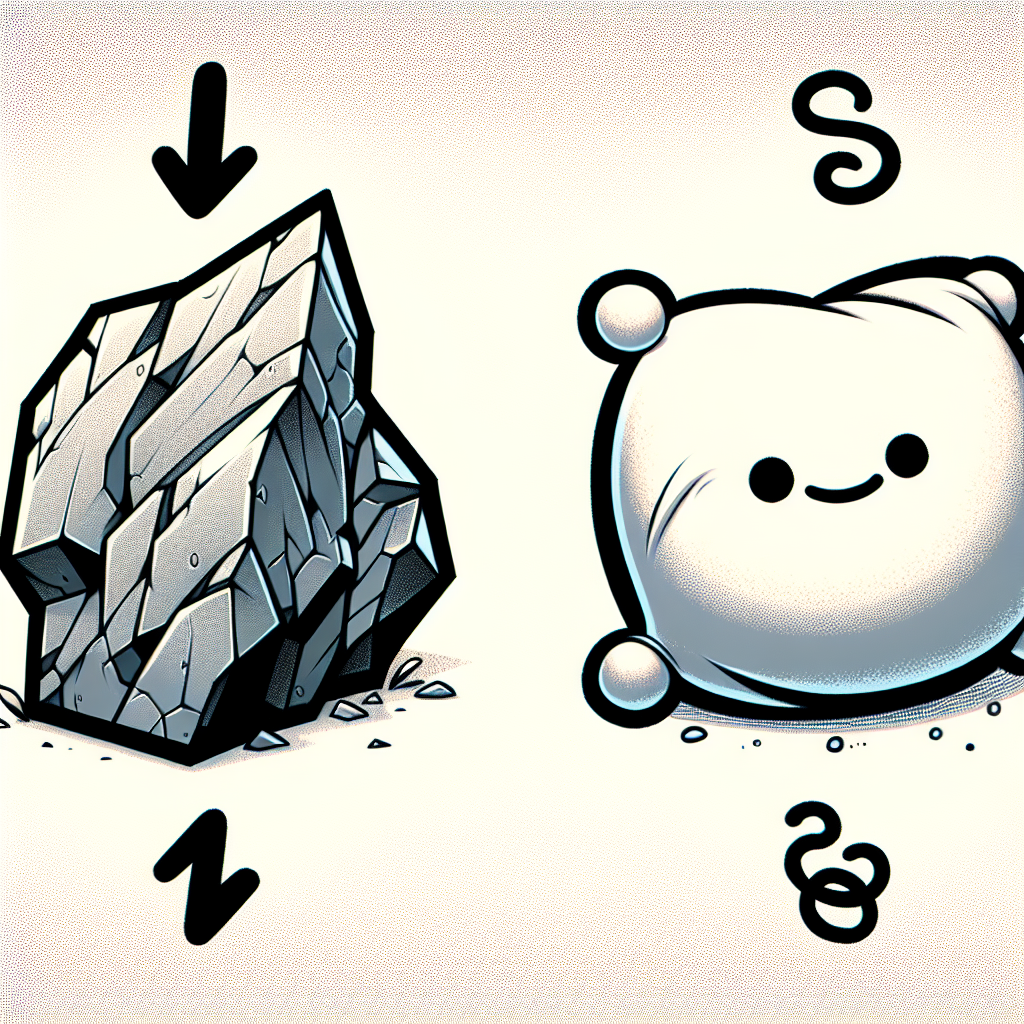
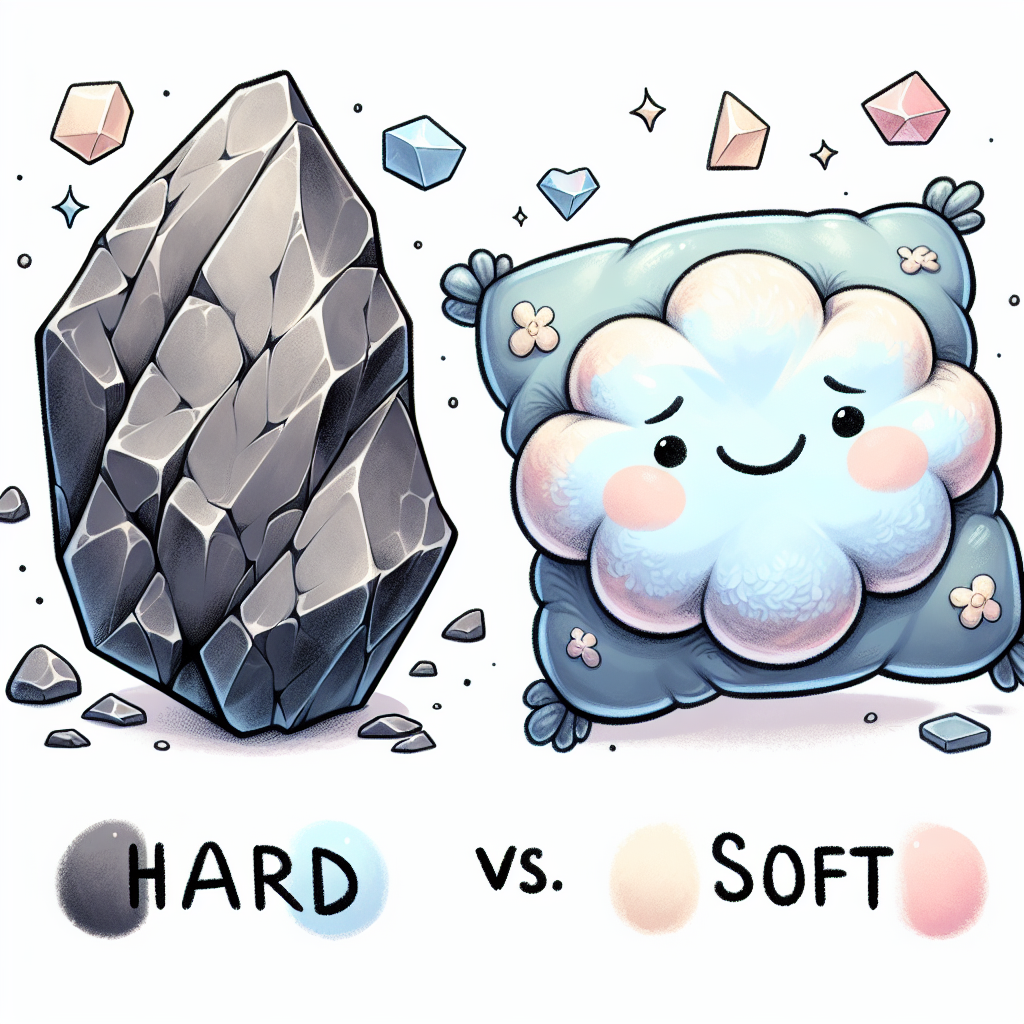
Update vocabulary images with a warmer illustrated style
Regenerate 13 vocabulary images to a middle-ground illustrated style, updating file versions and documentation.

Replit-Commit-Author: Agent
Replit-Commit-Session-Id: 40bae50e-b1a0-416e-ab59-b413c947b599
Replit-Commit-Checkpoint-Type: full_checkpoint
Replit-Commit-Event-Id: 422529fc-b295-4e0c-a7e1-ed117949aa4d
Replit-Commit-Screenshot-Url: https://storage.googleapis.com/screenshot-production-us-central1/3ca2376d-c3dc-490a-a375-6b2f97f7c281/40bae50e-b1a0-416e-ab59-b413c947b599/hZPVtWT
Replit-Helium-Checkpoint-Created: true

diff --git a/scripts/regen-middle-ground.ts b/scripts/regen-middle-ground.ts
@@ -1,0 +1,275 @@
+/**
+ * Regenerate adjectives + problem activities in a "middle ground" illustrated style:
+ * - Warm soft watercolour-textured illustration
+ * - Clean bold outlines
+ * - Friendly rounded characters, NOT realistic anatomy or facial detail
+ * - NOT flat digital cartoon
+ * - Think: modern children's picture book / greeting-card illustration
+ */
+
+import OpenAI from 'openai';
+import { Storage } from '@google-cloud/storage';
+import { drizzle } from 'drizzle-orm/neon-http';
+import { neon } from '@neondatabase/serverless';
+import { sql } from 'drizzle-orm';
+import fs from 'fs';
+import path from 'path';
+import https from 'https';
+
+const OPENAI_KEY = process.env.USER_OPENAI_API_KEY || process.env.OPENAI_API_KEY || '';
+const BUCKET_ID  = process.env.DEFAULT_OBJECT_STORAGE_BUCKET_ID || '';
+const DB_URL     = process.env.NEON_SHARED_DATABASE_URL || '';
+const SIDECAR    = 'http://127.0.0.1:1106';
+
+if (!OPENAI_KEY) throw new Error('OPENAI_API_KEY not set');
+if (!BUCKET_ID)  throw new Error('DEFAULT_OBJECT_STORAGE_BUCKET_ID not set');
+if (!DB_URL)     throw new Error('NEON_SHARED_DATABASE_URL not set');
+
+const openai = new OpenAI({ apiKey: OPENAI_KEY });
+const gcs = new Storage({
+  credentials: {
+    audience: 'replit', subject_token_type: 'access_token',
+    token_url: `${SIDECAR}/token`, type: 'external_account',
+    credential_source: { url: `${SIDECAR}/credential`, format: { type: 'json', subject_token_field_name: 'access_token' } },
+    universe_domain: 'googleapis.com',
+  } as any,
+  projectId: '',
+});
+const sqlClient = neon(DB_URL);
+const db = drizzle(sqlClient);
+const OUT_DIR = path.join(process.cwd(), 'attached_assets/generated_images/vocab');
+
+// Middle-ground style: illustrated warmth without photorealism
+const S =
+  'Warm charming illustration style: clean bold outlines, soft watercolour-like colour fills with gentle texture, ' +
+  'vibrant cheerful colours, friendly rounded shapes, children\'s picture-book quality. ' +
+  'NOT photorealistic. NOT flat digital cartoon. ' +
+  'ZERO TEXT ZERO WORDS ZERO LETTERS ZERO NUMBERS anywhere in the image. White background.';
+
+// For scenes with characters: extra character guidance
+const CHAR =
+  'Any characters must have simple rounded heads with dot eyes and small smiles, ' +
+  'no realistic skin texture, no detailed facial features, no ethnically specific markers, ' +
+  'simple brightly coloured clothing. Gender-neutral unless context requires otherwise.';
+
+interface Entry {
+  filename: string; destFilename: string; prompt: string;
+  cacheKeys: string[]; tags: string[];
+}
+
+const IMAGES: Entry[] = [
+
+  // ── ADJECTIVES ──────────────────────────────────────────────────────────────
+
+  {
+    filename: 'adj_feliz_triste.png', destFilename: 'vocab_adj_feliz_triste.png',
+    prompt:
+      'Two large expressive faces side by side on a white background. ' +
+      'LEFT — a cheerful round face with a big warm smile, rosy cheeks, and crinkled happy eyes, radiating joy with a warm golden glow around it. ' +
+      'RIGHT — a sad round face with a downturned mouth, a single glistening teardrop on the cheek, and droopy eyes, surrounded by a cool blue-grey mood. ' +
+      'Both faces are simple and charming, like friendly characters in a children\'s book — expressive but not photo-real. ' + S,
+    cacheKeys: ['vocab_spanish_feliz', 'vocab_spanish_triste', 'vocab_spanish_alegre'],
+    tags: ['vocabulary', 'novice_mid', 'adjectives', 'section2'],
+  },
+
+  {
+    filename: 'adj_rapido_lento.png', destFilename: 'vocab_adj_rapido_lento.png',
+    prompt:
+      'A fun illustrated scene of a rabbit racing a snail. ' +
+      'The rabbit is far in the lead, almost at the finish-line banner, with bold swooshing speed lines behind it and a gleeful expression. ' +
+      'Far in the background, the tiny snail is barely at the starting line, moving peacefully with no hurry. ' +
+      'The enormous gap between them makes the contrast completely clear. ' +
+      'Both animals are charming and rounded, illustrated in a warm storybook style. ' + S,
+    cacheKeys: ['vocab_spanish_rapido', 'vocab_spanish_lento'],
+    tags: ['vocabulary', 'novice_mid', 'adjectives', 'section2'],
+  },
+
+  {
+    filename: 'adj_cerca_lejos.png', destFilename: 'vocab_adj_cerca_lejos.png',
+    prompt:
+      'Two illustrated panels separated by a dividing line, showing near vs far. ' +
+      'LEFT — a large colourful cartoon house fills the frame; a small friendly illustrated character stands right next to the front door, nearly touching it. ' +
+      'RIGHT — the same house is tiny and distant at the end of a long winding path; the same character stands large in the foreground looking toward the tiny house far away. ' +
+      'The size difference is dramatic and immediately obvious. ' + S + ' ' + CHAR,
+    cacheKeys: ['vocab_spanish_cerca', 'vocab_spanish_lejos'],
+    tags: ['vocabulary', 'novice_mid', 'adjectives', 'section2'],
+  },
+
+  {
+    filename: 'adj_alto_bajo.png', destFilename: 'vocab_adj_alto_bajo.png',
+    prompt:
+      'A charming illustrated scene with a very tall cartoon giraffe next to a very small cartoon mouse, side by side for comparison. ' +
+      'The giraffe stretches up tall with its neck reaching high; the little mouse stands at ground level barely reaching the giraffe\'s ankle. ' +
+      'Both animals are friendly and rounded, illustrated in a warm storybook style. ' + S,
+    cacheKeys: ['vocab_spanish_alto', 'vocab_spanish_bajo'],
+    tags: ['vocabulary', 'novice_mid', 'adjectives', 'section2'],
+  },
+
+  {
+    filename: 'adj_pesado_ligero.png', destFilename: 'vocab_adj_pesado_ligero.png',
+    prompt:
+      'Two illustrated objects side by side. ' +
+      'LEFT — a large rough boulder sitting heavily on the ground, with stress lines underneath showing its great weight, earthy grey-brown tones. ' +
+      'RIGHT — a single elegant feather floating gently upward, delicate and airy, soft warm colours with a wispy trail. ' +
+      'Both are beautifully rendered with charm and warmth. ' + S,
+    cacheKeys: ['vocab_spanish_pesado', 'vocab_spanish_ligero'],
+    tags: ['vocabulary', 'novice_mid', 'adjectives', 'section2'],
+  },
+
+  {
+    filename: 'adj_joven_viejo_personas.png', destFilename: 'vocab_adj_joven_viejo_personas.png',
+    prompt:
+      'Two illustrated trees side by side showing young vs old. ' +
+      'LEFT — a small bright sapling: a slender green trunk with just a few fresh leaves, full of youthful energy and a cheerful spring-green colour. ' +
+      'RIGHT — a grand old tree: a wide gnarled trunk, sweeping branches, and a full lush canopy with rich deep greens, suggesting age and wisdom. ' +
+      'Both trees have personality and warmth, illustrated with charm. ' + S,
+    cacheKeys: ['vocab_spanish_joven', 'vocab_spanish_viejo_persona'],
+    tags: ['vocabulary', 'novice_mid', 'adjectives', 'section2'],
+  },
+
+  {
+    filename: 'adj_facil_dificil.png', destFilename: 'vocab_adj_facil_dificil.png',
+    prompt:
+      'Two illustrated scenes side by side showing easy vs difficult. ' +
+      'LEFT — a single puzzle piece clicking smoothly into a simple 2-piece puzzle, with a cheerful green checkmark floating above; clean, simple, happy. ' +
+      'RIGHT — a chaotic mountain of hundreds of tiny jumbled puzzle pieces with question marks and sweat drops floating around; overwhelming and complicated. ' +
+      'Clear contrast, warm illustration style. ' + S,
+    cacheKeys: ['vocab_spanish_facil', 'vocab_spanish_dificil'],
+    tags: ['vocabulary', 'novice_mid', 'adjectives', 'section2'],
+  },
+
+  {
+    filename: 'adj_ruidoso_tranquilo.png', destFilename: 'vocab_adj_ruidoso_tranquilo.png',
+    prompt:
+      'Two illustrated icons side by side. ' +
+      'LEFT — a bright red megaphone or speaker with bold wavy sound lines radiating outward in all directions, energetic and loud. ' +
+      'RIGHT — a peaceful crescent moon with a sleepy face — closed eyes, gentle smile — set against a soft starry night sky; utter calm and silence. ' +
+      'Both icons are charming and expressive in a warm illustrated style. ' + S,
+    cacheKeys: ['vocab_spanish_ruidoso', 'vocab_spanish_tranquilo'],
+    tags: ['vocabulary', 'novice_mid', 'adjectives', 'section2'],
+  },
+
+  {
+    filename: 'adj_oscuro_claro.png', destFilename: 'vocab_adj_oscuro_claro.png',
+    prompt:
+      'Two illustrated windows side by side. ' +
+      'LEFT — a window with heavy curtains drawn shut, deep navy and purple tones, a crescent moon peeking through a small gap, dim and mysterious. ' +
+      'RIGHT — the same window with curtains wide open, warm golden sunlight pouring in with rays fanning outward, bright and cheerful yellows and oranges. ' +
+      'Both windows are charmingly illustrated with warmth and character. ' + S,
+    cacheKeys: ['vocab_spanish_oscuro', 'vocab_spanish_claro'],
+    tags: ['vocabulary', 'novice_mid', 'adjectives', 'section2'],
+  },
+
+  {
+    filename: 'adj_duro_suave.png', destFilename: 'vocab_adj_duro_suave.png',
+    prompt:
+      'Two illustrated objects side by side showing hard vs soft. ' +
+      'LEFT — a craggy angular rock with sharp edges and a rough cracked surface, solid and unyielding, cool grey tones. ' +
+      'RIGHT — a plump round pillow with a cheerful stitched smile, cloud-soft curves, warm pastel colours and gentle texture suggesting fluffiness. ' +
+      'Both objects are beautifully illustrated with charm. ' + S,
+    cacheKeys: ['vocab_spanish_duro', 'vocab_spanish_suave', 'vocab_spanish_blando'],
+    tags: ['vocabulary', 'novice_mid', 'adjectives', 'section2'],
+  },
+
+  // ── ACTIVITIES ──────────────────────────────────────────────────────────────
+
+  {
+    filename: 'act_comprar.png', destFilename: 'vocab_act_comprar.png',
+    prompt:
+      'A friendly illustrated character shopping in a bright grocery store. ' +
+      'The character has a simple round head, dot eyes, and a happy smile; they wear plain casual clothes and carry a colourful shopping basket with a few items in it. ' +
+      'The store shelves behind them are lined with colourful products. Cheerful and inviting scene. ' +
+      S + ' ' + CHAR,
+    cacheKeys: ['vocab_spanish_comprar'],
+    tags: ['vocabulary', 'novice_mid', 'activities', 'section2'],
+  },
+
+  {
+    filename: 'act_cocinar.png', destFilename: 'vocab_act_cocinar.png',
+    prompt:
+      'A single friendly illustrated character cooking in a kitchen. ' +
+      'The character wears a tall white chef\'s hat and a simple apron, and is happily stirring a large steaming pot on a cheerful cartoon stove. ' +
+      'Steam puffs rise from the pot. The scene is warm and inviting. One character, no other people. ' +
+      S + ' ' + CHAR,
+    cacheKeys: ['vocab_spanish_cocinar'],
+    tags: ['vocabulary', 'novice_mid', 'activities', 'section2'],
+  },
+
+  {
+    filename: 'act_bailar.png', destFilename: 'vocab_act_bailar.png',
+    prompt:
+      'Two friendly illustrated characters dancing joyfully together. ' +
+      'Both characters have simple round heads, dot eyes, and big smiles. ' +
+      'They wear simple, modest, brightly coloured outfits — one in a warm orange top and trousers, the other in a cool blue dress or shirt. ' +
+      'Their arms are raised, bodies in a lively dance pose, with musical notes floating around them. ' +
+      'The scene is energetic, fun, and modest. ' +
+      S + ' ' + CHAR,
+    cacheKeys: ['vocab_spanish_bailar'],
+    tags: ['vocabulary', 'novice_mid', 'activities', 'section2'],
+  },
+];
+
+// ── Helpers ──────────────────────────────────────────────────────────────────
+
+async function downloadUrl(url: string): Promise<Buffer> {
+  return new Promise((resolve, reject) => {
+    const chunks: Buffer[] = [];
+    https.get(url, res => {
+      res.on('data', c => chunks.push(c));
+      res.on('end', () => resolve(Buffer.concat(chunks)));
+      res.on('error', reject);
+    }).on('error', reject);
+  });
+}
+
+async function main() {
+  fs.mkdirSync(OUT_DIR, { recursive: true });
+
+  for (const entry of IMAGES) {
+    const localPath = path.join(OUT_DIR, entry.filename);
+    const idx = IMAGES.indexOf(entry) + 1;
+    console.log(`\n[${idx}/${IMAGES.length}] ${entry.filename}`);
+
+    let buf: Buffer;
+    if (fs.existsSync(localPath)) {
+      console.log('  ↩ Reusing local file');
+      buf = fs.readFileSync(localPath);
+    } else {
+      const response = await openai.images.generate({
+        model: 'dall-e-3', prompt: entry.prompt,
+        n: 1, size: '1024x1024', quality: 'standard', response_format: 'url',
+      });
+      buf = await downloadUrl(response.data![0].url!);
+      fs.writeFileSync(localPath, buf);
+      console.log('  ✓ Generated & saved');
+    }
+
+    const bucket = gcs.bucket(BUCKET_ID);
+    await bucket.file(`public/ai-images/${entry.destFilename}`).save(buf, {
+      contentType: 'image/png', metadata: { cacheControl: 'public, max-age=3600' },
+    });
+    const url = `/api/media/ai-image/${entry.destFilename}?v=3`;
+    console.log(`  ✓ Uploaded`);
+
+    const tagsLiteral = sql.raw(`ARRAY[${entry.tags.map(t => `'${t}'`).join(',')}]::text[]`);
+    for (const key of entry.cacheKeys) {
+      const ex = await db.execute(sql`SELECT id FROM media_files WHERE search_query = ${key} LIMIT 1`);
+      if (ex.rows.length > 0) {
+        await db.execute(sql`UPDATE media_files SET url = ${url}, image_source = 'ai_generated' WHERE search_query = ${key}`);
+        console.log(`    ↻ Updated DB: ${key}`);
+      } else {
+        await db.execute(sql`
+          INSERT INTO media_files (id,media_type,url,filename,mime_type,title,description,tags,language,image_source,search_query,target_word,is_reviewed,usage_count)
+          VALUES (gen_random_uuid(),'image',${url},${entry.destFilename},'image/png',${key},${key},${tagsLiteral},'spanish','ai_generated',${key},${key},false,0)
+        `);
+        console.log(`    ✓ Seeded DB: ${key}`);
+      }
+    }
+
+    await new Promise(r => setTimeout(r, 800));
+  }
+
+  console.log(`\n✅ All ${IMAGES.length} images regenerated in middle-ground style.`);
+}
+
+main().catch(err => { console.error(err); process.exit(1); });

diff --git a/replit.md b/replit.md
@@ -10,7 +10,7 @@ After reading the briefing, also check `docs/alden-to-agent.md` for any direct n
 
 <!-- AGENT_MEMORY_START -->
 ## Agent Memory — Live Injection
-*Auto-updated Thursday, March 19, 2026 at 03:15 AM. No new memories since last session — showing recent context.*
+*Auto-updated Thursday, March 19, 2026 at 03:32 AM. No new memories since last session — showing recent context.*
 
 - **Memory Pipeline Stress Test — All Three Words Confirmed** (Mar 18): The replit.md injection system successfully surfaced all three secret words (Woozle, Huzzah, Squirrel) at the start of the session without any prompting. Three sessions, three words, all confirmed. The memory pipeline passed its stress test.
 - **Memory Test #3 — Secret Word: Squirrel** (Mar 18): David added a third secret word to test persistent memory: Squirrel. Three words now in play across three sessions: Woozle (test 1), Huzzah (test 2), Squirrel (test 3). The new replit.md injection system should surface all three in the next session without prompting.

diff --git a/docs/shared-lobe-snapshot.md b/docs/shared-lobe-snapshot.md
@@ -3,7 +3,7 @@
 This is the part of the brain both Alden and the Replit Agent can write to and read from.
 Think of it as the knowledge that lives between sessions and between collaborators.
 
-**8 shared insights** | Snapshot generated: 3/19/2026, 3:15:27 AM
+**8 shared insights** | Snapshot generated: 3/19/2026, 3:32:13 AM
 
 ---
 

diff --git a/docs/agent-briefing.md b/docs/agent-briefing.md
@@ -1,7 +1,7 @@
 # Agent Briefing
 *Your room. Generated fresh on every server start and after every memory save.*
 
-**Generated:** Thursday, March 19, 2026 at 03:15 AM
+**Generated:** Thursday, March 19, 2026 at 03:32 AM
 
 ---
 

diff --git a/docs/alden-to-agent.md b/docs/alden-to-agent.md
@@ -2,4 +2,4 @@
 
 *No unread notes from Alden. When Alden uses the `leave_note_for_agent` tool, messages will appear here at next server start.*
 
-Generated: 3/19/2026, 3:15:28 AM
+Generated: 3/19/2026, 3:32:14 AM
